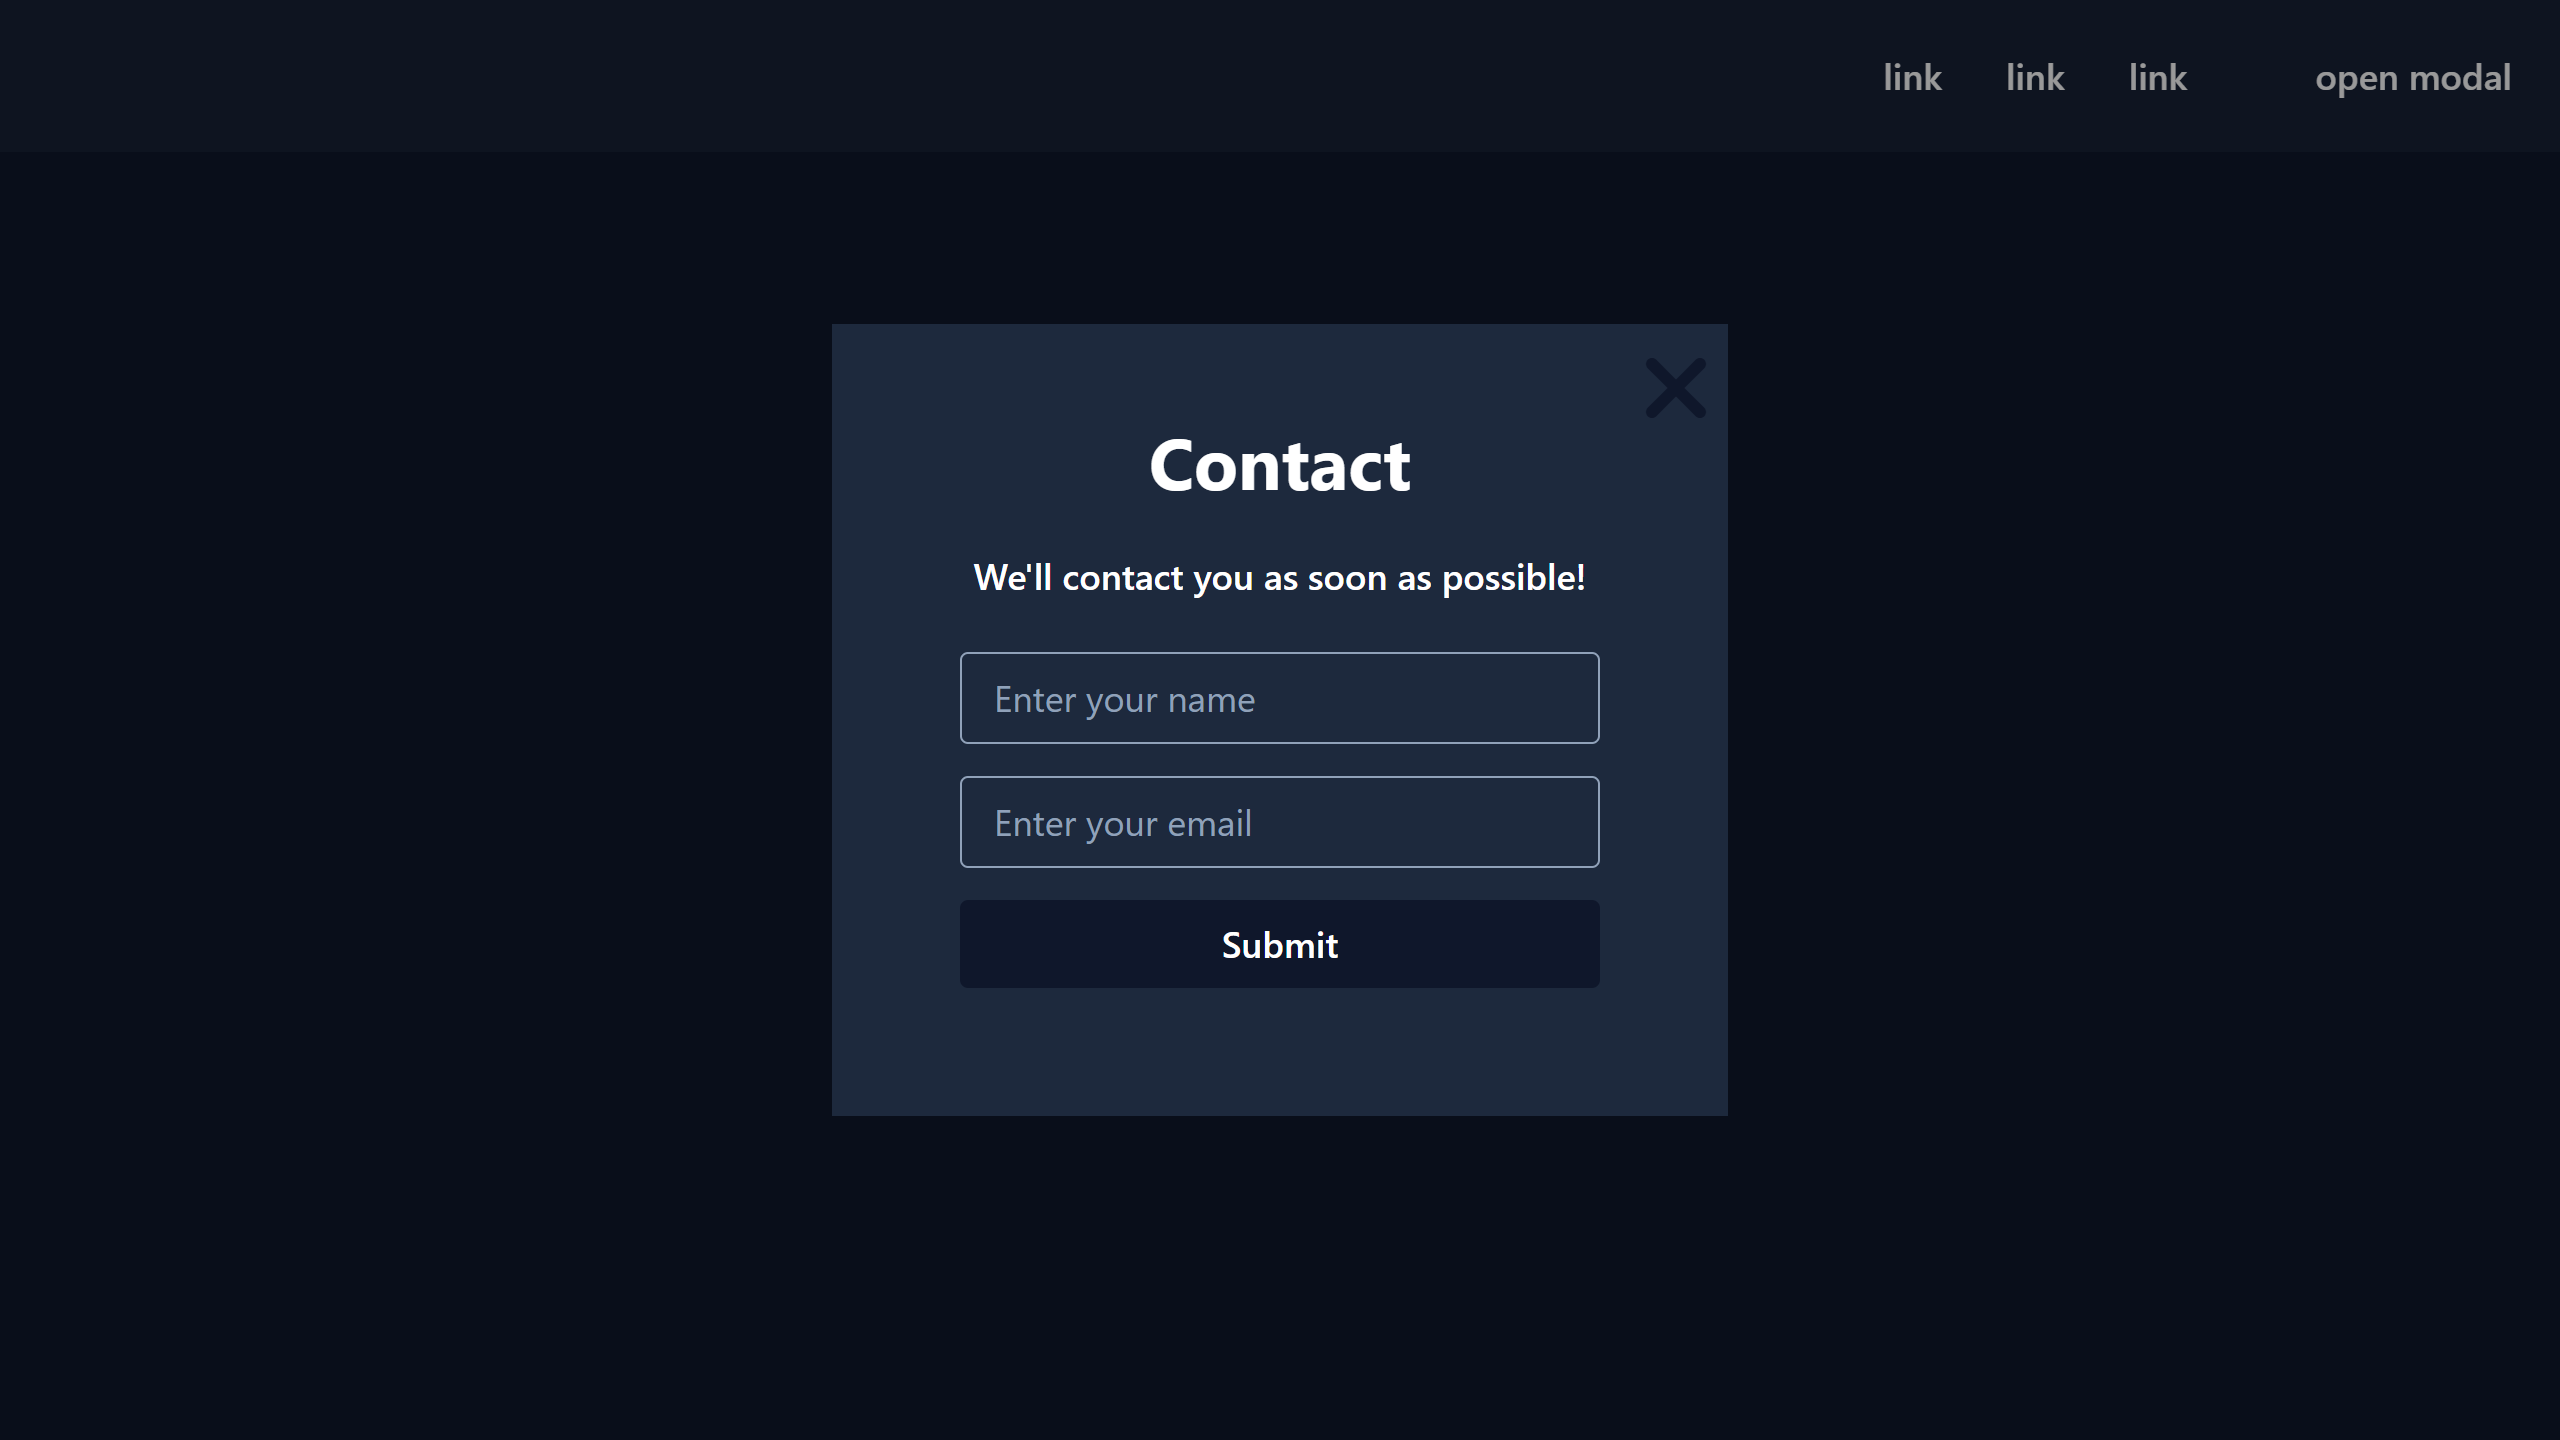
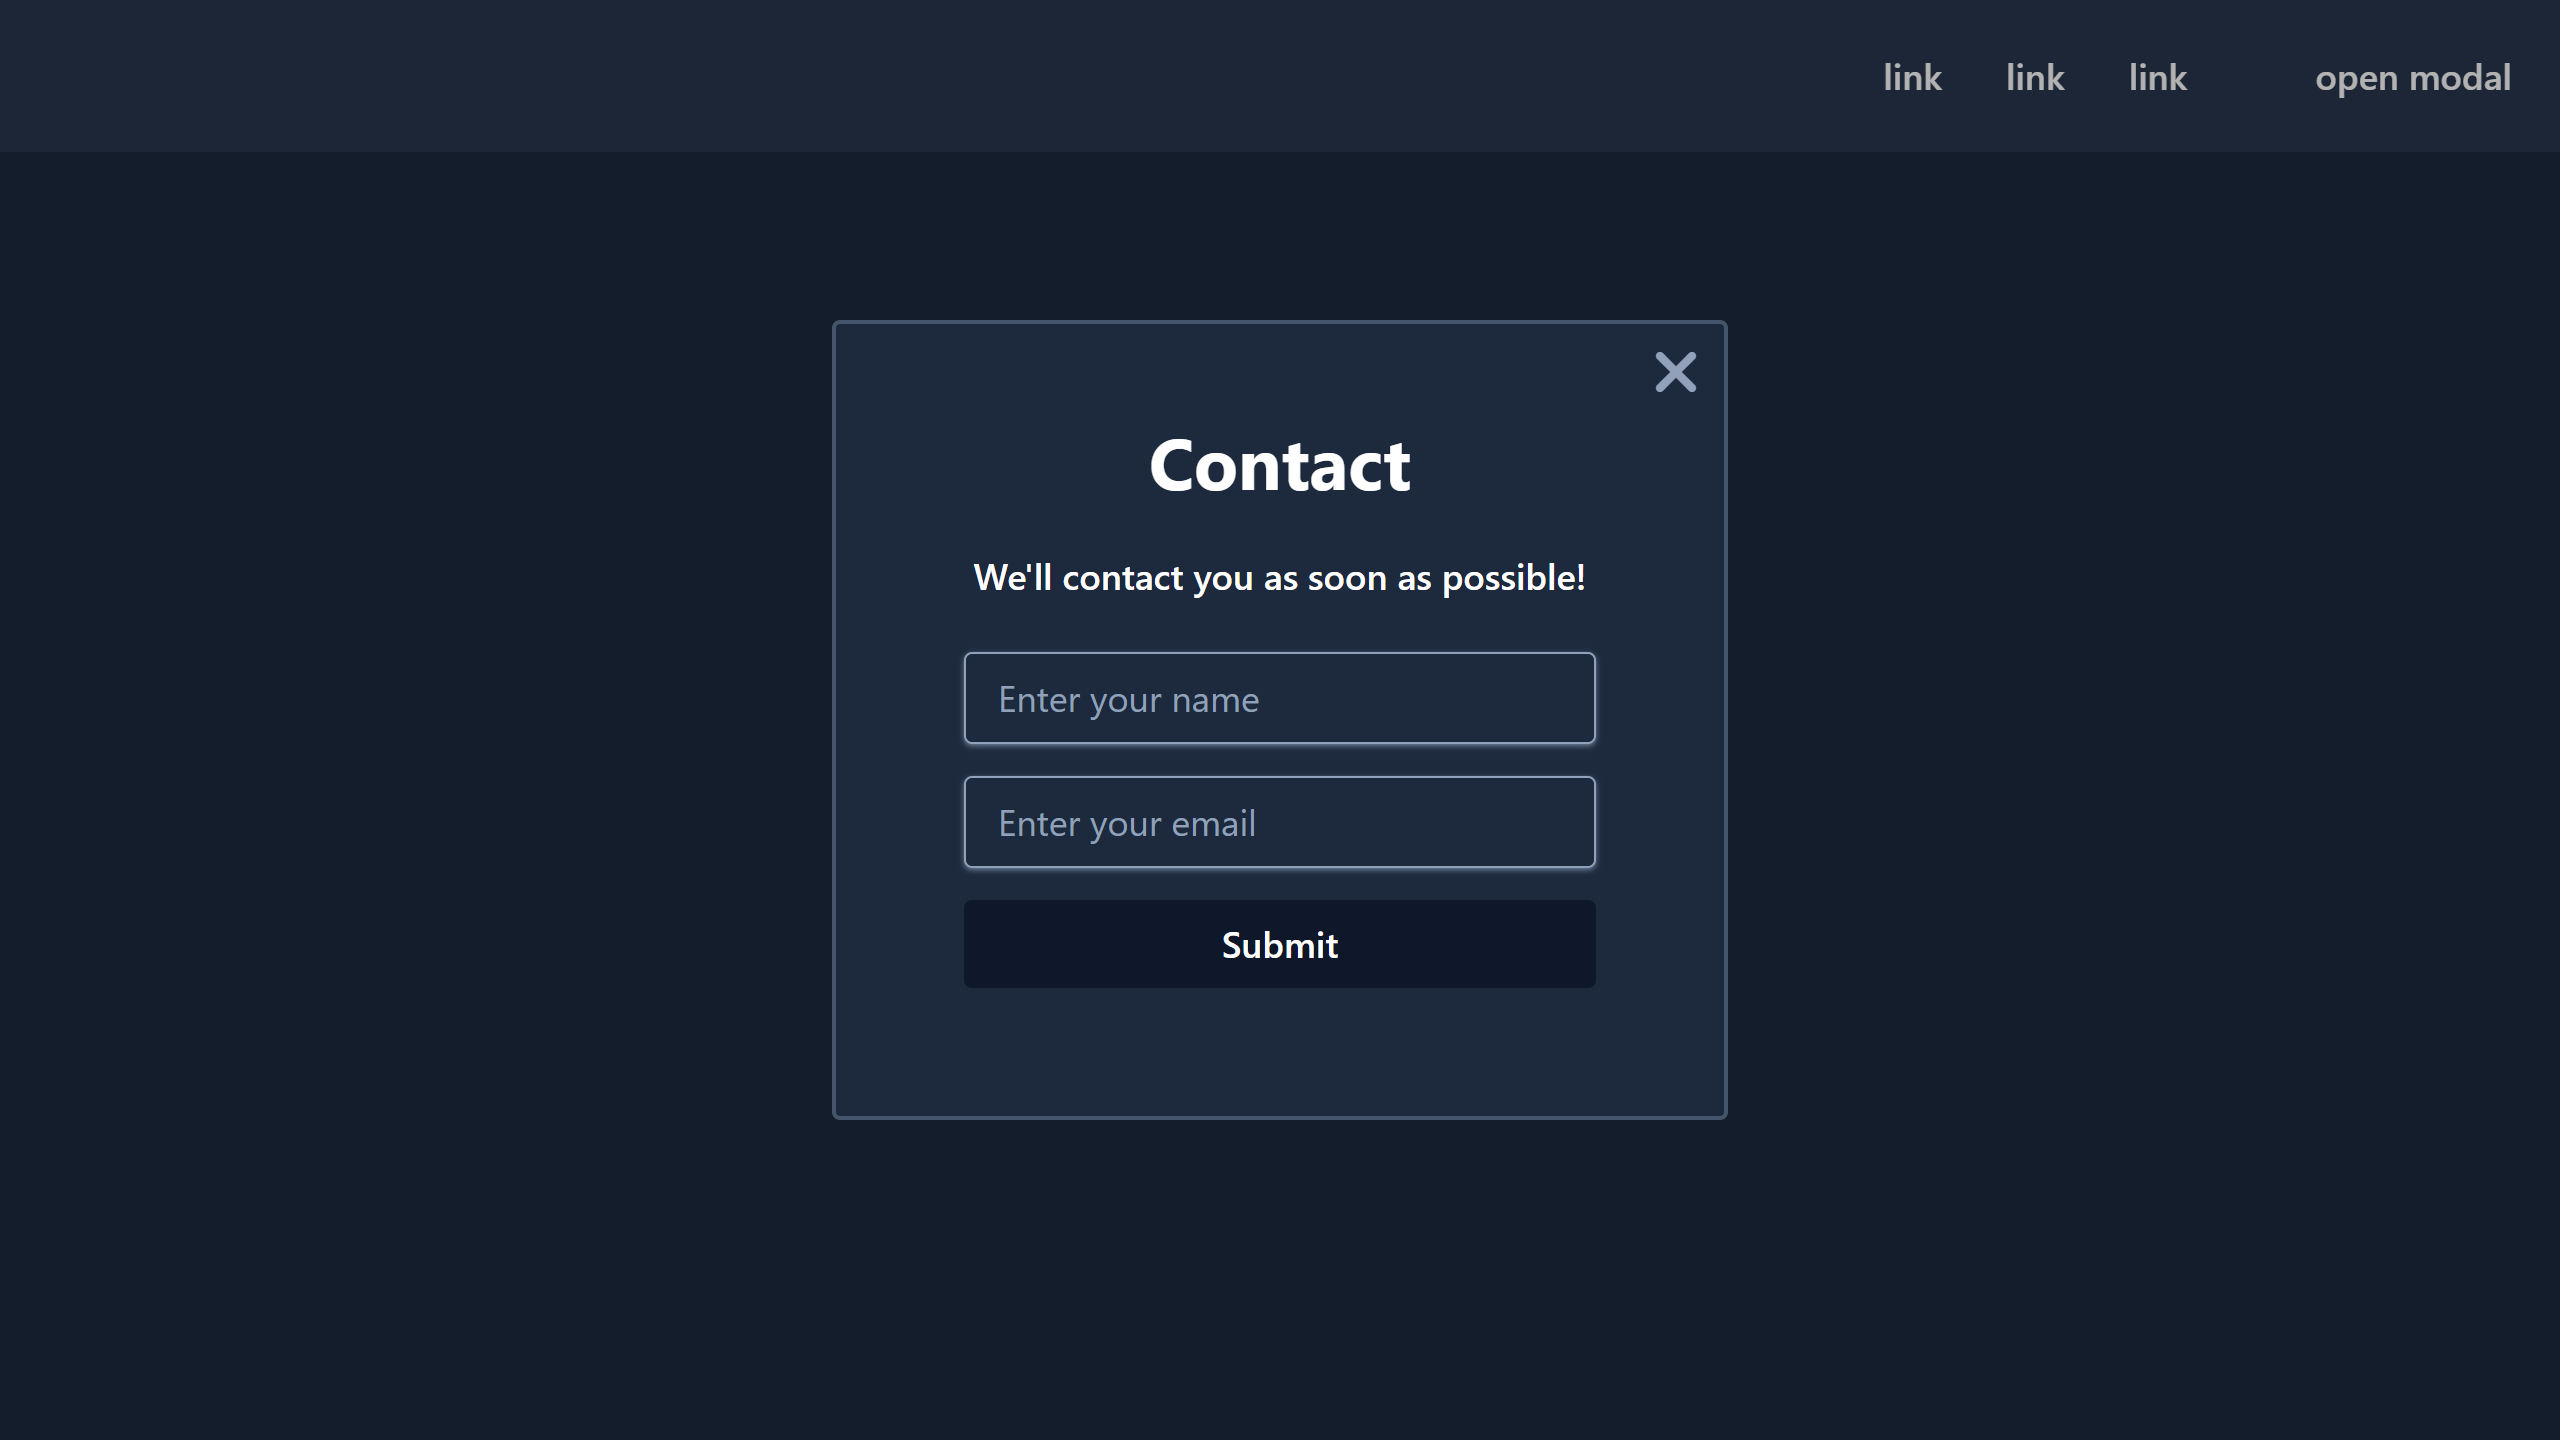
style(projects/javascript): change some styling in 8-modal-window project

diff --git a/projects/javascript/8-modal-window/index.html b/projects/javascript/8-modal-window/index.html
@@ -13,10 +13,10 @@
     <link rel="stylesheet" href="./dist/output.css" />
     <title>Modal Window</title>
   </head>
-  <body class="bg-slate-900 text-white">
+  <body class="bg-slate-800 text-white">
     <!-- Website navigation header -->
     <header
-      class="sticky z-10 top-0 left-0 right-0 p-4 bg-slate-800/60 backdrop-blur-sm"
+      class="sticky z-10 top-0 left-0 right-0 p-4 bg-slate-700/60 backdrop-blur-sm"
     >
       <div class="container">
         <nav>
@@ -46,7 +46,7 @@
               <a
                 href="#"
                 class="transition-color duration-300 inline-block ml-8 p-2 hover:text-slate-300"
-                id="header-open-modal"
+                data-modal-open
                 >open modal</a
               >
             </li>
@@ -58,16 +58,15 @@
     <main>
       <!-- Modal Window -->
       <div
-        class="absolute z-20 content-[''] flex justify-center items-center top-0 left-0 w-full h-full bg-black/40 hidden"
+        class="absolute z-20 content-[''] flex justify-center items-center top-0 left-0 w-full h-full bg-black/30"
         id="modal"
       >
-        <article class="relative w-full max-w-md p-10 pt-12 bg-slate-800">
+        <article
+          class="relative w-full max-w-md rounded border-2 border-slate-600 p-10 pt-12 bg-slate-800"
+        >
           <!-- Close modal button -->
-          <div
-            class="absolute top-2 right-2 cursor-pointer"
-            id="close-modal-btn"
-          >
-            <i class="fa-solid fa-xmark fa-3x text-slate-900"></i>
+          <div class="absolute top-2 right-3 cursor-pointer" data-modal-close>
+            <i class="fa-solid fa-xmark fa-2x text-slate-400"></i>
           </div>
 
           <!-- Modal header -->
@@ -87,7 +86,7 @@
                 name="name"
                 id="name"
                 placeholder="Enter your name"
-                class="w-full border border-slate-400 px-4 py-2 rounded-sm text-lg outline-none placeholder:text-slate-400"
+                class="w-full border border-slate-400 px-4 py-2 rounded-sm text-lg outline-none placeholder:text-slate-400 shadow-sm shadow-slate-500"
               />
             </div>
             <div class="w-full">
@@ -97,7 +96,7 @@
                 name="email"
                 id="email"
                 placeholder="Enter your email"
-                class="w-full border border-slate-400 px-4 py-2 rounded-sm text-lg outline-none placeholder:text-slate-400"
+                class="w-full border border-slate-400 px-4 py-2 rounded-sm text-lg outline-none placeholder:text-slate-400 shadow-sm shadow-slate-500"
               />
             </div>
 
@@ -114,8 +113,8 @@
       <!-- Content -->
       <section class="flex justify-center items-center h-200">
         <button
-          class="inline-block transition duration-300 px-4 py-2 rounded-lg bg-slate-800 hover:bg-slate-700 hover:scale-105 cursor-pointer text-xl font-semibold"
-          id="main-open-modal"
+          class="inline-block transition duration-300 px-4 py-2 rounded-lg bg-slate-700 hover:bg-slate-600 hover:scale-105 cursor-pointer text-xl font-semibold"
+          data-modal-open
         >
           Open Modal
         </button>

diff --git a/projects/javascript/8-modal-window/src/main.js b/projects/javascript/8-modal-window/src/main.js
@@ -7,8 +7,7 @@ const state = {
 const UI = {
   modalWindow: null,
   modalCloseBtn: null,
-  openModalHeader: null,
-  openModalMain: null,
+  openModalBtns: null,
 };
 
 // Function to open modal window
@@ -64,13 +63,14 @@ function modalWindowHandler(e) {
 // Main initializer
 function init() {
   UI.modalWindow = document.querySelector('#modal');
-  UI.modalCloseBtn = document.querySelector('#close-modal-btn');
-  UI.openModalHeader = document.querySelector('#header-open-modal');
-  UI.openModalMain = document.querySelector('#main-open-modal');
+  UI.modalCloseBtn = document.querySelector('[data-modal-close]');
+  UI.openModalBtns = document.querySelectorAll('[data-modal-open]');
 
   UI.modalCloseBtn.addEventListener('click', closeBtnHandler);
-  UI.openModalHeader.addEventListener('click', openModalHandler);
-  UI.openModalMain.addEventListener('click', openModalHandler);
+
+  UI.openModalBtns.forEach((btn) =>
+    btn.addEventListener('click', openModalHandler),
+  );
 
   window.addEventListener('keydown', windowKeydownHandler);
 
